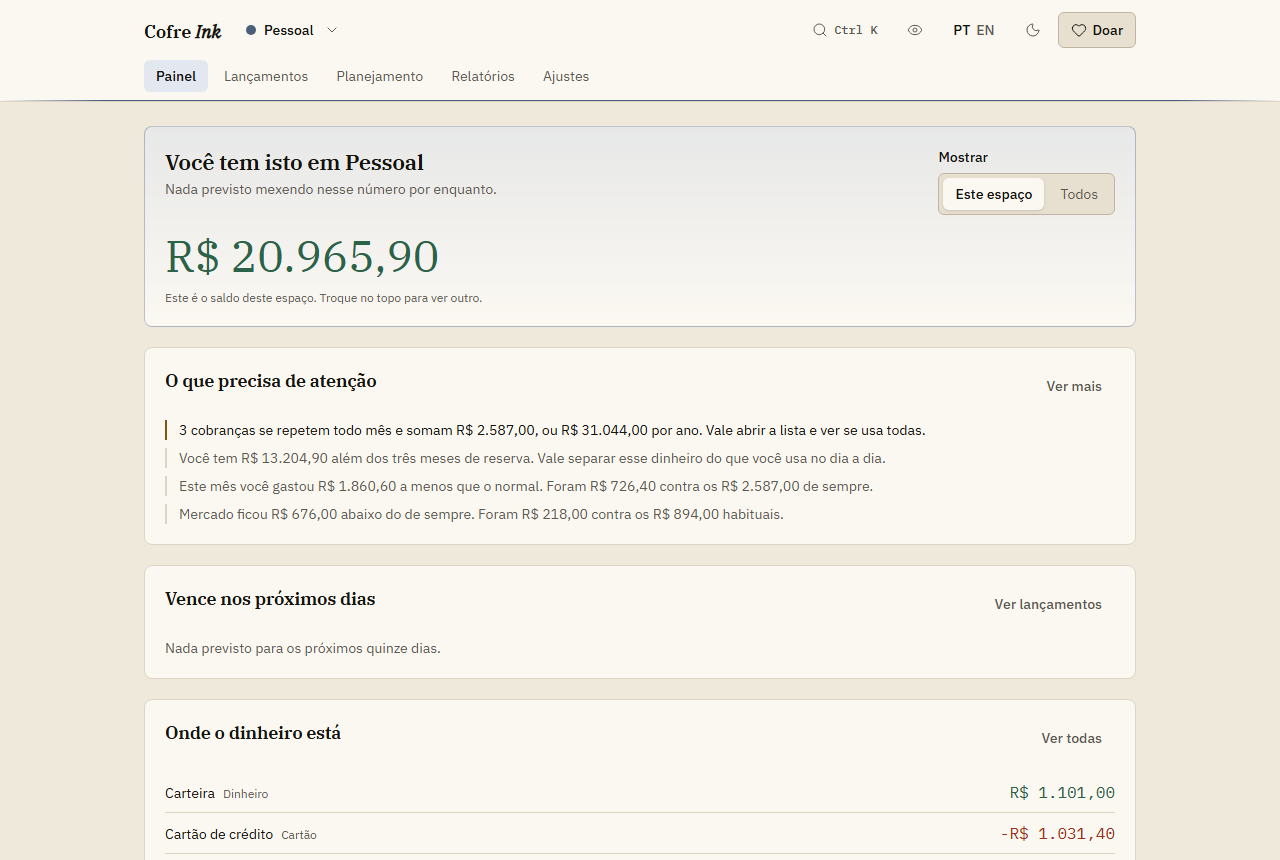
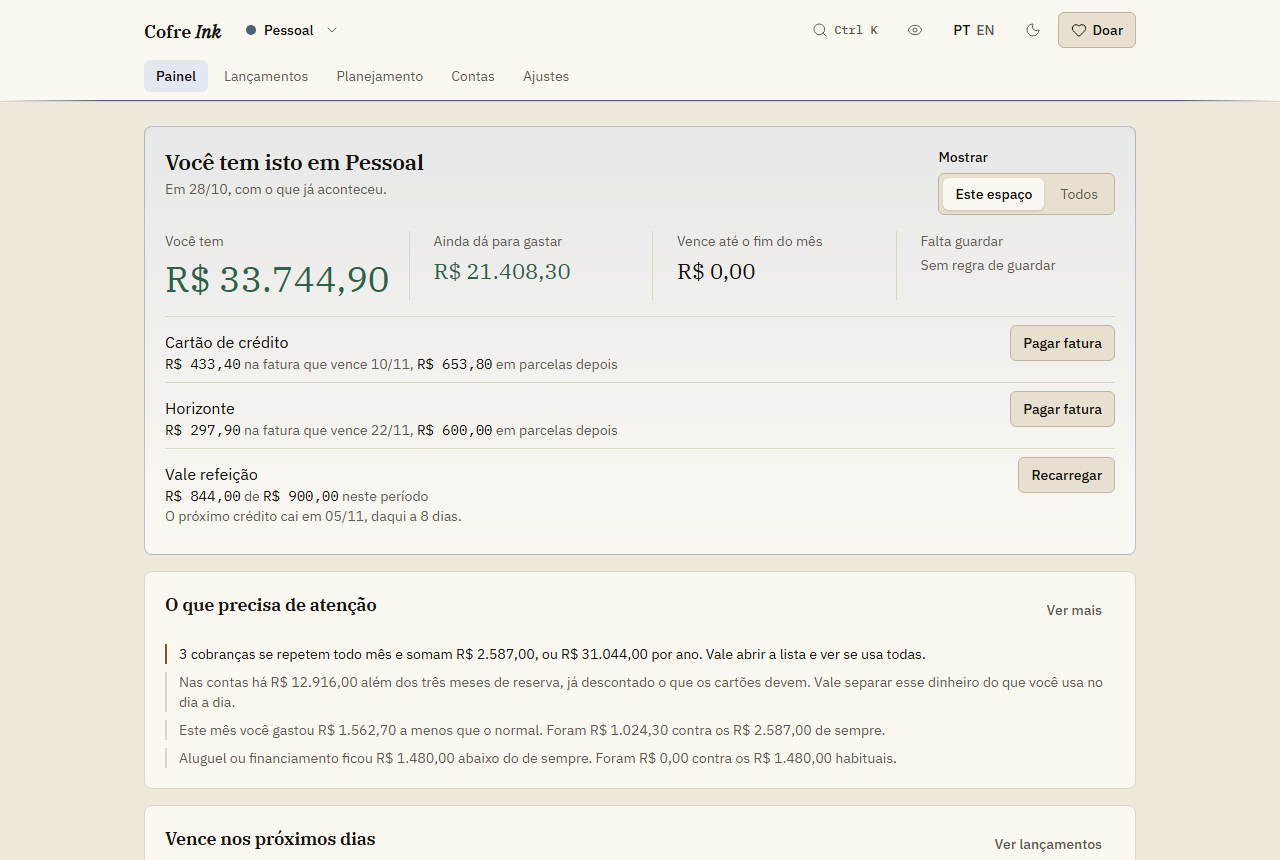
docs: a new photo of the overview for the README
Taken last, by the camera of the suite, from the demonstration of 2.0.0 with two
cards, a meal voucher and the figures of today, 1280 by 860 and not the whole
page (part 2, L.9.3). The text that describes it says what it shows.

diff --git a/README.md b/README.md
@@ -14,7 +14,7 @@ device without you pressing something.
 | Repository | [`AndreiLud/app-cofre-ink`](https://github.com/AndreiLud/app-cofre-ink) |
 | Donate | [PayPal](https://www.paypal.com/donate/?hosted_button_id=6P3GYKL7PULEN) |
 
-![The overview, with the balance, what the figures found and where the money is](docs/imagens/painel.png)
+![The overview of the demonstration: what you have, what is left to spend this month, what falls due by its end and what is still to put aside, then the two cards and the meal voucher, and what the figures found](docs/imagens/painel.png)
 
 <a id="in_english"></a>
 
